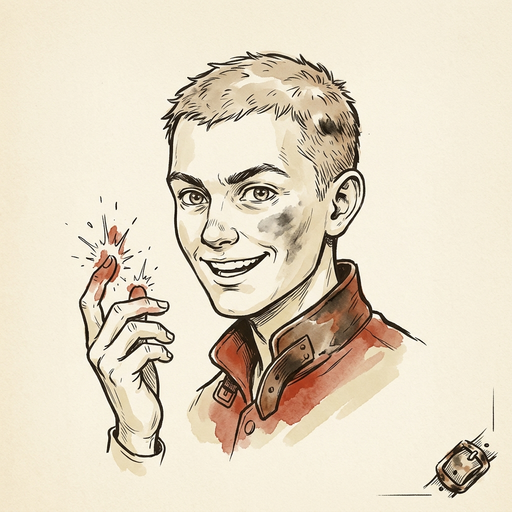
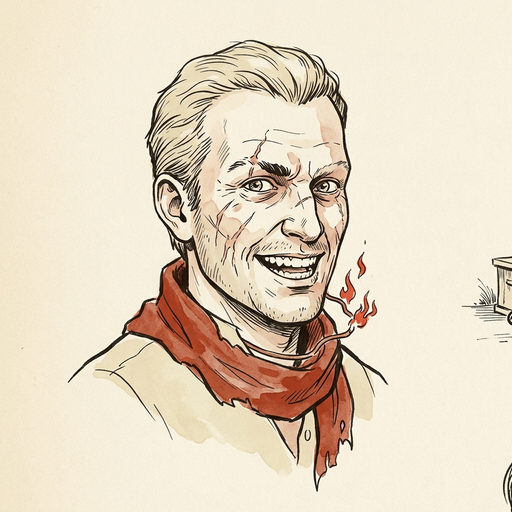
S29 portrait verdicts (Chris): Oriel 1, Tessaly 2, Edric 1, Brann 2, Hask 1, Vael 2, Kessa 1, Maelin 2, Brennor 1, Pell 1, Corvane 1, Varro 1, Sorrel 2, Ysolde 2, Quill 2 — the kept faces installed, MANIFEST flipped, handoff updated.

Changed region(s): [[0.125, 0.0625, 0.8438, 0.9688], [0.75, 0.7812, 1.0, 1.0], [0.9062, 0.5, 1.0, 0.6875]]

diff --git a/handoff.md b/handoff.md
@@ -128,7 +128,7 @@
    - **Not measured**: cards never cast and per-card cast counts (the sweep reports wins/turns/library; `facts.spellsCast` per deck is a small addition if the planner wants it before the amendments).
 2. **The Elemental token has no plate** — it renders the placeholder icon; an art-round item (the Goblin/Bird/Faerie/Bear/Soldier tokens have plates).
 3. **Corvane's eight angels are seven** (the Reya swap) — Chris's call; if the reanimator identity wants its ninth-drop back, an un-prizeOnly Reya is the planner's conversation.
-4. **The portrait round awaits verdicts**: candidate 1 is wired for all fifteen; the MANIFEST rows say so; flipping to candidate 2 is a file copy + a MANIFEST edit. The subject descriptors are mine from the deck identities — the planner may want a pass on the faces once the names/epithets are final.
+4. **The portrait round is judged** (Chris, 2026-09-06): Oriel 1, Tessaly 2, Edric 1, Brann 2, Hask 1, Vael 2, Kessa 1, Maelin 2, Brennor 1, Pell 1, Corvane 1, Varro 1, Sorrel 2, Ysolde 2, Quill 2 — the kept faces installed, MANIFEST flipped (15 kept, 15 rejected). The subject descriptors were mine from the deck identities; if names or epithets change in the amendments, the faces may want a second look.
 5. **The Lumberjack** remains shop-only (ADR-101) — the picker shows every deck a player can face, and none holds him.
 6. **The parley header** shows "Name, the Epithet" (Chris's ruling 4); the duel rail keeps the name alone (the epithet would crowd the status block) — say if it should ride there too.
 
@@ -142,7 +142,7 @@ Default tier **529 passed / 2 skipped** (50 files; +8 S29 fixtures, +2 mage fuzz
 
 ## Suggested next
 
-1. **Chris**: the portrait verdicts (the sheet); a live mage encounter for the epithet line and a face; whether the Chronicle's tease should have gone with the counting sentence.
+1. **Chris**: a live mage encounter for the epithet line and a kept face; whether the Chronicle's tease should have gone with the counting sentence.
 2. **Planner**: the amendments the sweep argues — the mill decks' clocks (more triggers or the tier-3 titles), Pale Edric's tier-1 viability, the white starter as a wall (or is that the intended lesson?), Pell's identity, the beast-parent gaps (Corvane vs Serra, Quill vs the Wurm); per-card cast counts if wanted first.
 3. **Implementer smalls**: the Elemental token plate; `facts.spellsCast` in the sweep; the epithet on the duel rail if wanted.
 

diff --git a/docs/prompts/portraits.md b/docs/prompts/portraits.md
@@ -59,7 +59,7 @@ against the cached Scryfall crops before writing descriptors).
 
 ### S29 mage portraits (the cleansheet round — fifteen faces, two candidates each; Chris's verdicts pending)
 
-The five shared deck portraits (`portrait-opponent-*`) gave three mages one face each and stopped matching the flowing pairs. Fifteen subjects from the decks' identities and epithets, TWO candidates each (`docs/art/subjects/portrait-mage-<key>-{1,2}.md`); candidate 1 wired provisionally (`packages/ui/public/portraits/portrait-mage-<key>.png`, 512px; `opponents.json` `portrait`). Washes = the mage's colour identity + parchment.
+The five shared deck portraits (`portrait-opponent-*`) gave three mages one face each and stopped matching the flowing pairs. Fifteen subjects from the decks' identities and epithets, TWO candidates each (`docs/art/subjects/portrait-mage-<key>-{1,2}.md`); **Chris's verdicts (2026-09-06)**: Oriel 1, Tessaly 2, Edric 1, Brann 2, Hask 1, Vael 2, Kessa 1, Maelin 2, Brennor 1, Pell 1, Corvane 1, Varro 1, Sorrel 2, Ysolde 2, Quill 2 — the kept candidate installed (`packages/ui/public/portraits/portrait-mage-<key>.png`, 512px; `opponents.json` `portrait`). Washes = the mage's colour identity + parchment.
 
 | Subject (`portrait-mage-<key>-{1,2}`) | Mage | Pair · tier | Epithet | Wash |
 |---|---|---|---|---|
